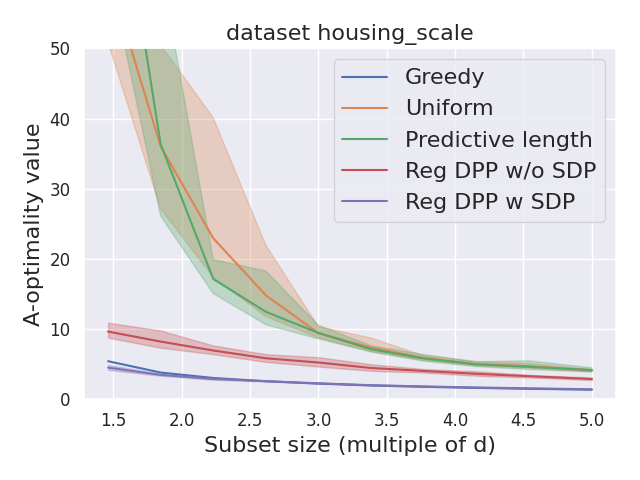
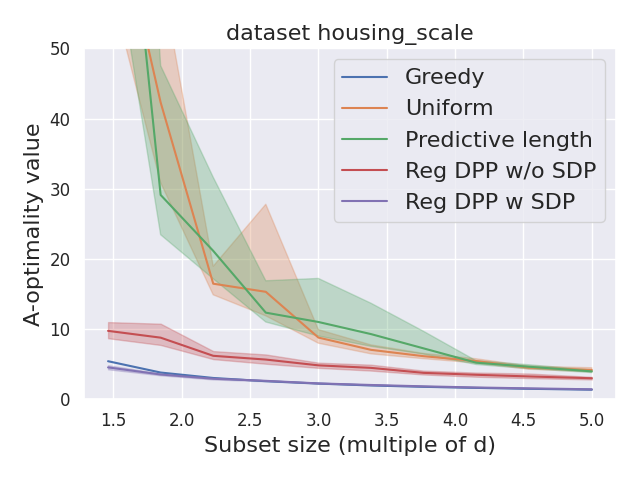
changed solver

Changed region(s): [[0.1562, 0.0938, 0.9375, 0.8125]]

diff --git a/regdpp/sdp.py b/regdpp/sdp.py
@@ -1,4 +1,3 @@
-# import scs
 import cvxpy as cp
 import numpy as np
 
@@ -8,11 +7,9 @@ def cp_D_opt_criterion(cov, A: np.ndarray):
     return res
 
 
-def get_optimal_weights(X: np.ndarray, A: np.ndarray, size: int) -> np.ndarray:
+def get_optimal_weights(X: np.ndarray, A: np.ndarray, size: int, solver="scs") -> np.ndarray:
     def objective(weights):
         cov = cp.multiply(weights[:, None], X).T @ X
-        # cov = [w * np.outer(x_i, x_i) for w, x_i in zip(weights, X)]
-        # cov = np.sum(cov, 0)
         val = cp_D_opt_criterion(cov, A)
         return val
 
@@ -20,5 +17,12 @@ def get_optimal_weights(X: np.ndarray, A: np.ndarray, size: int) -> np.ndarray:
     cp_ob = cp.Minimize(objective(weights))
     constraints = [cp.sum(weights) == size, weights <= 1, weights >= 0]
     prob = cp.Problem(cp_ob, constraints)
-    prob.solve(solver=cp.MOSEK)
-    return weights.value
+    if solver == "scs":
+        solver = cp.SCS
+    elif solver == "mosek":
+        solver = cp.MOSEK
+
+    prob.solve(solver=solver)
+    return np.minimum(
+        np.maximum(weights.value, np.zeros(weights.value.shape)), np.ones(weights.value.shape)
+    )

diff --git a/setup.py b/setup.py
@@ -1,0 +1,15 @@
+from os.path import abspath, dirname, join
+
+import toml
+from setuptools import find_packages, setup
+
+with open("pyproject.toml", "r") as f:
+    requirements = toml.loads(f.read())
+
+prod = requirements["install_requires"]
+dev = requirements["extras_require"]["dev"]
+
+setup(
+    install_requires=[x + prod[x] if prod[x] != "*" else x for x in prod],
+    extras_require={"dev": [x + dev[x] if dev[x] != "*" else x for x in dev]},
+)

diff --git a/regdpp/utils.py b/regdpp/utils.py
@@ -4,7 +4,6 @@ from time import time
 from typing import Union
 
 import numpy as np
-from pdf2image import convert_from_path
 
 from .general import DATA_DIR
 
@@ -34,7 +33,3 @@ def load_libsvm_data(name_or_path: Union[str, Path]) -> np.ndarray:
     Y = data[:, :1].astype(float)
 
     return X
-
-
-# def convert_pdf_to_png(path: Union[str, Path]):
-#     convert_from_path(path)[0].save(path, 'PNG')

diff --git a/README.md b/README.md
@@ -56,11 +56,6 @@ value = A_opt_criterion(X[S].T @ X[S], A, )
 
 <img src="./figs/space_ga_scale.png" alt="Dependence of A-optimality value on size $k$" width="450"/>  <img src="./figs/space_ga_scale_baseline.png" alt="A-optimality value devided by baseline" width="450"/> <img src="./figs/space_ga_scale_time.png" alt="Time comparison" width="450"/>
 
-<!-- ![Dependence of A-optimality value on size $k$](./figs/mg_scale.png)
-
-![A-optimality value devided by baseline](./figs/mg_scale_baseline.png)
-
-![Time comparison](./figs/mg_scale_time.png) -->
 
 ## Citing
 
